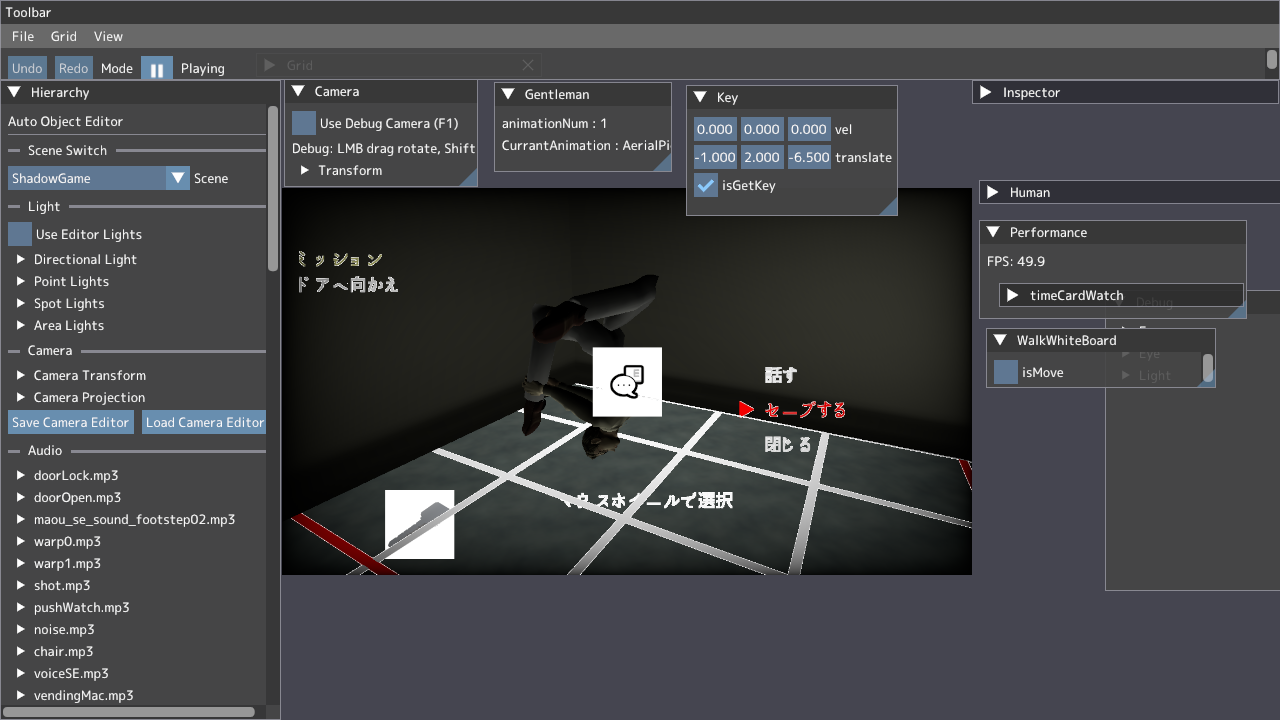
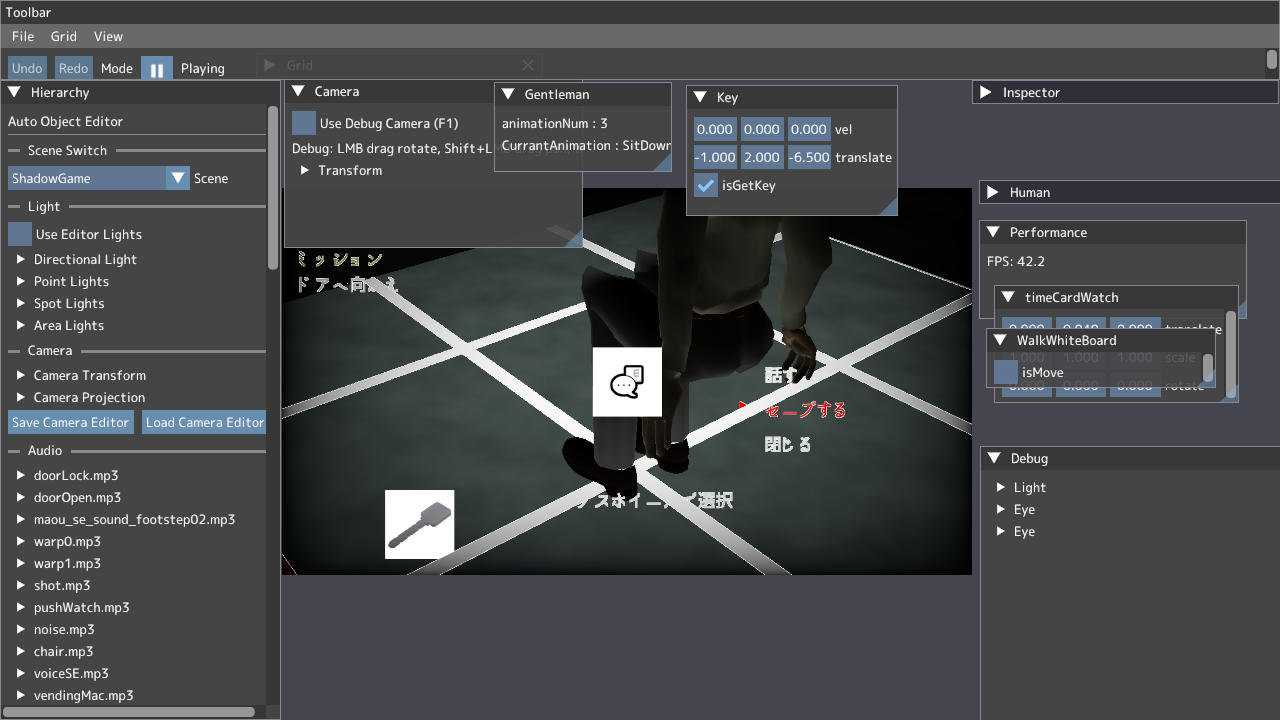
ポータル作れるときにアニメーション

diff --git a/project/application/GameObject/Player/Player.cpp b/project/application/GameObject/Player/Player.cpp
@@ -465,10 +465,9 @@ void Player::Animation()
 
 
     if (PlayerCommand::GetInstance()->Shot()) {
-
-
-        desiredAnimationName = "ShotWatch";
-
+        if (PortalManager::GetCanMakePortal()) {
+            desiredAnimationName = "ShotWatch";
+        }
     } else {
 
         if (fabs(velocity_.x) > 0.0f || fabs(velocity_.z) > 0.0f) {
